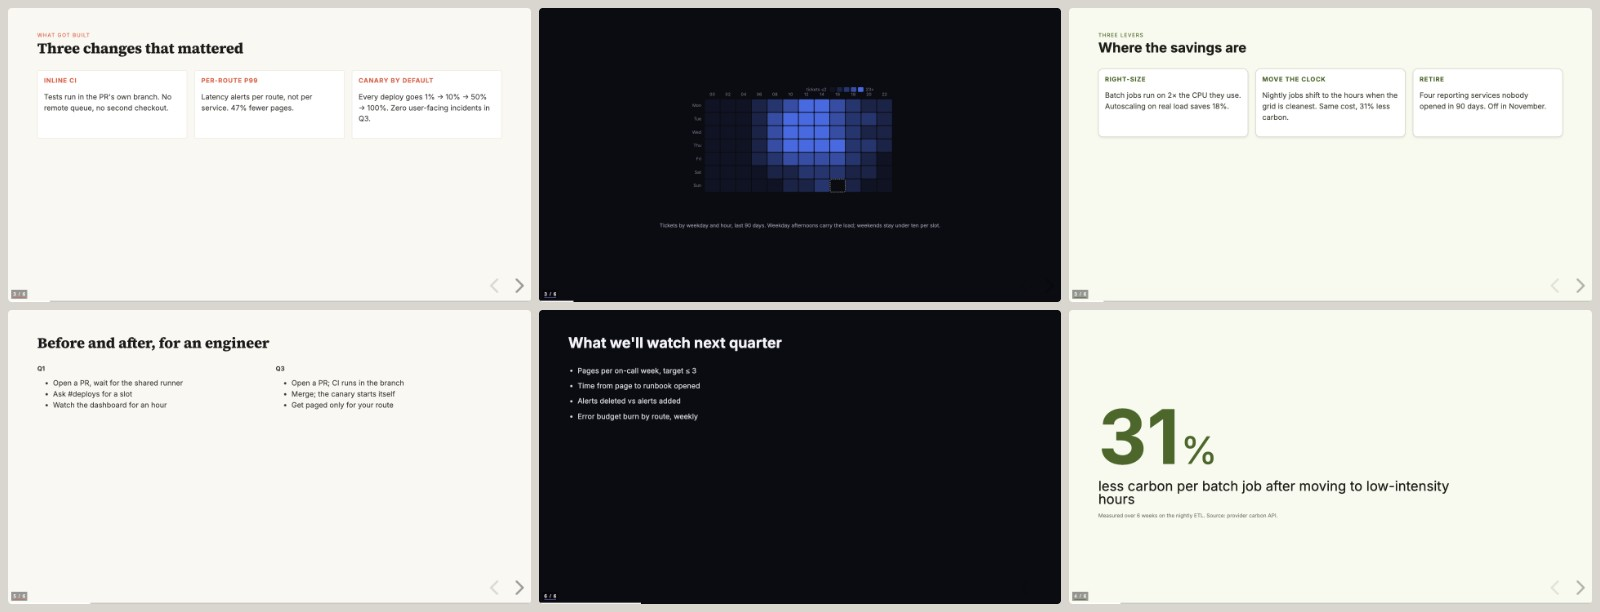
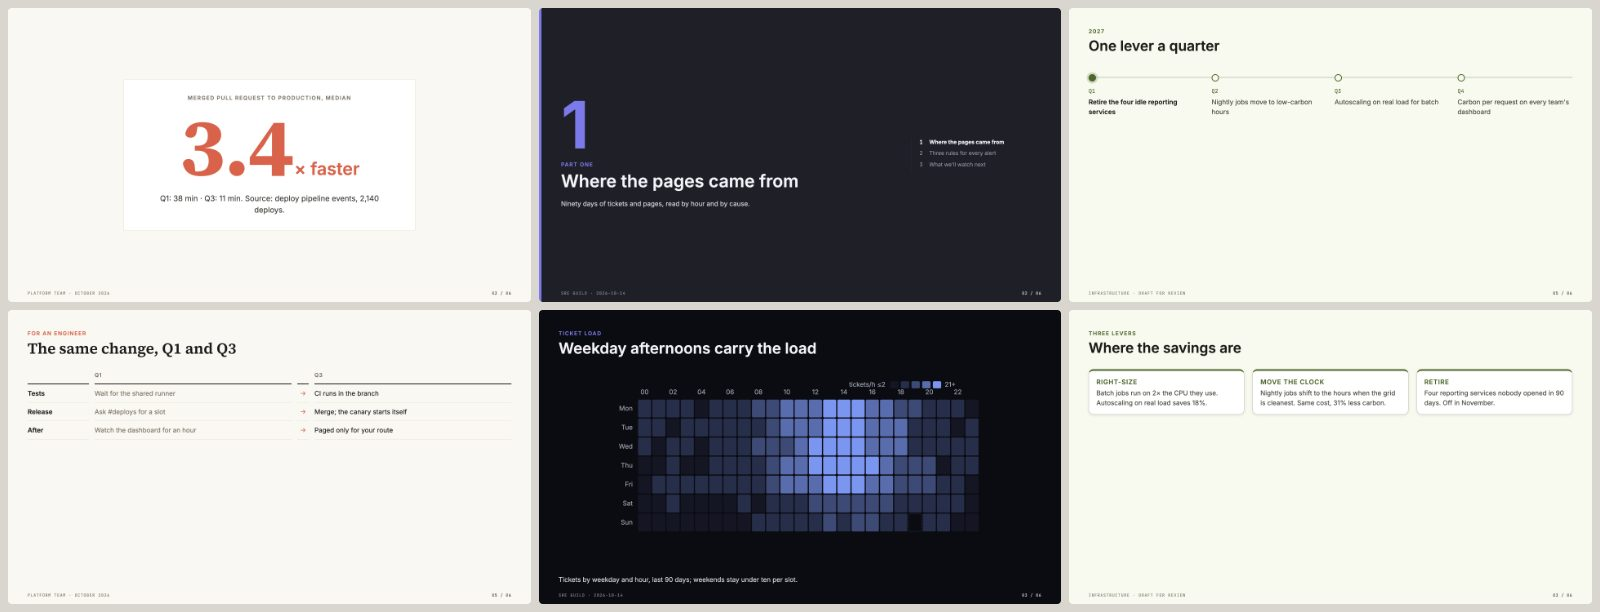
docs(gallery): rebuild the deck images with slideware v2
The README's deck and presenter images were built from old-format
slides.js decks with the removed builder and Reveal, so they could no longer
be rebuilt as documented. The three gallery decks are now slide markup in the
catalogue's patterns (docs/gallery/decks/style-{1,3,5}.html), and
make-decks.js builds them with the engine, checks them, exports the slides,
photographs the presenter view and writes decks.jpg and presenter.jpg; it
needs Node 22+ and Chrome, not Playwright. The gallery README's steps follow.

The bignumber pattern now centres its stat and sets the number larger, which
the gallery showed it needed.

diff --git a/docs/gallery/make-decks.js b/docs/gallery/make-decks.js
@@ -1,0 +1,81 @@
+#!/usr/bin/env node
+// make-decks.js — the README's deck images, built with slideware's own engine.
+//
+//   NODE_OPTIONS= node docs/gallery/make-decks.js <scratch-dir> [--images]
+//
+// Builds three decks from decks/style-{1,3,5}.html (slide markup written with the catalogue's
+// patterns; the first line's comment names the style, title, footer and minutes), with the chart
+// figures from charts/ (or chartware's templates) in each deck's asset block. Then it exports every
+// slide as a picture, photographs the presenter view on style-1's big-number slide, lays out
+// decks-sheet.html and presenter-sheet.html, and with --images writes docs/images/decks.jpg and
+// presenter.jpg. Needs Node 22+ and Chrome; nothing is installed.
+"use strict";
+const fs = require("fs");
+const path = require("path");
+const { execFileSync } = require("child_process");
+const ROOT = path.resolve(__dirname, "..", "..");
+const HTML = path.join(ROOT, "plugins", "knowledgeware", "skills", "slideware", "html");
+const build = require(path.join(HTML, "engine", "build.js"));
+const D = require(path.join(HTML, "engine", "deckfile.js"));
+const { launch } = require(path.join(HTML, "engine", "cdp.js"));
+const CLI = path.join(HTML, "engine", "cli.js");
+
+const out = path.resolve(process.argv[2] || "");
+if (!process.argv[2]) { console.error("usage: node docs/gallery/make-decks.js <scratch-dir> [--images]"); process.exit(1); }
+const images = process.argv.includes("--images");
+fs.mkdirSync(path.join(out, "shots"), { recursive: true });
+
+function figureSvg(name) {
+  for (const dir of [path.join(__dirname, "charts"), path.join(ROOT, "plugins", "knowledgeware", "skills", "chartware", "templates", "svg")]) {
+    const f = path.join(dir, `${name}.svg`);
+    if (fs.existsSync(f)) return fs.readFileSync(f, "utf8").replace(/<\?xml[^>]*>\s*/, "").replace(/^<svg\b/, `<svg data-figure="${name}"`).trim();
+  }
+  throw new Error(`no chart ${name}.svg`);
+}
+
+const decks = [];
+for (const n of [1, 3, 5]) {
+  const src = fs.readFileSync(path.join(__dirname, "decks", `style-${n}.html`), "utf8");
+  const head = /<!--\s*deck:\s*(\S+)\s*·\s*title:\s*(.*?)\s*·\s*footer:\s*(.*?)\s*·\s*minutes:\s*(\d+)\s*-->/.exec(src);
+  const slides = src.slice(head.index + head[0].length).trim();
+  let text = build.newDeck({ brand: head[1], title: head[2], footer: [head[3]], minutes: Number(head[4]), slides });
+  const figs = [...new Set([...slides.matchAll(/data-figure-ref="([^"]+)"/g)].map((m) => m[1]))];
+  if (figs.length) text = D.spliceRegion(text, "sw-assets", D.region(text, "sw-assets").content + figs.map(figureSvg).join("\n") + "\n");
+  const file = path.join(out, `deck-style-${n}`, "index.html");
+  fs.mkdirSync(path.dirname(file), { recursive: true });
+  fs.writeFileSync(file, text);
+  const env = { ...process.env, NODE_OPTIONS: "" };
+  const check = execFileSync(process.execPath, [CLI, "check", file, "--render"], { env, encoding: "utf8" }).trim().split("\n").pop();
+  execFileSync(process.execPath, [CLI, "export", file, "--png", path.join(out, "shots", `s${n}`)], { env });
+  console.log(`style-${n}: ${check}`);
+  decks.push({ n, file });
+}
+
+// The sheets: six slides from the three decks, and the big-number slide beside its presenter view.
+const pick = [["s1", "02-speed"], ["s3", "02-part-1"], ["s5", "05-roadmap"], ["s1", "05-engineer"], ["s3", "03-load"], ["s5", "03-levers"]];
+for (const [dir, f] of pick) fs.copyFileSync(path.join(out, "shots", dir, `${f}.png`), path.join(out, "shots", `${dir}-${f}.png`));
+fs.copyFileSync(path.join(__dirname, "decks-sheet.html"), path.join(out, "decks-sheet.html"));
+fs.copyFileSync(path.join(__dirname, "presenter-sheet.html"), path.join(out, "presenter-sheet.html"));
+
+(async () => {
+  const b = await launch();
+  const main = await b.newPage({ width: 1280, height: 720, scale: 2 });
+  await main.goto(require("url").pathToFileURL(decks[0].file).href + "?capture#/speed");
+  await main.evaluate("new Promise((r) => SW.ready(r))");
+  fs.writeFileSync(path.join(out, "shots", "pres-main.png"), await main.screenshot());
+  const pres = await b.newPage({ width: 1280, height: 800, scale: 2 });
+  await pres.goto(require("url").pathToFileURL(decks[0].file).href + "?presenter#/speed");
+  await new Promise((r) => setTimeout(r, 1500));
+  fs.writeFileSync(path.join(out, "shots", "pres-view.png"), await pres.screenshot());
+  for (const sheet of ["decks", "presenter"]) {
+    const p = await b.newPage({ width: 1600, height: 900 });
+    await p.goto(require("url").pathToFileURL(path.join(out, `${sheet}-sheet.html`)).href);
+    await new Promise((r) => setTimeout(r, 500));
+    const h = await p.evaluate("Math.ceil(document.querySelector('.g').getBoundingClientRect().bottom)");
+    const jpg = await p.screenshot({ format: "jpeg", quality: 82, clip: { x: 0, y: 0, width: 1600, height: h } });
+    fs.writeFileSync(path.join(out, `${sheet}.jpg`), jpg);
+    if (images) fs.writeFileSync(path.join(ROOT, "docs", "images", `${sheet}.jpg`), jpg);
+    console.log(`${sheet}.jpg ${Math.round(jpg.length / 1024)} KB${images ? " → docs/images/" : ""}`);
+  }
+  await b.close();
+})().catch((e) => { console.error(e); process.exit(1); });

diff --git a/docs/gallery/decks/style-1.html b/docs/gallery/decks/style-1.html
@@ -1,0 +1,55 @@
+<!-- deck: style-1 · title: Platform engineering review, Q3 · footer: Platform team · October 2026 · minutes: 25 -->
+<section data-key="title" class="layout-title" data-chrome="none">
+  <p class="kicker">Platform team · Q3 review</p>
+  <h1>Platform engineering review, Q3</h1>
+  <p class="subtitle">What changed in how a change reaches production</p>
+  <div class="srule"></div>
+  <p class="meta">Platform team · October 2026</p>
+  <aside class="notes">Open with the one number on the next slide, then the three changes.
+
+- Keep the intro under a minute [pause]</aside>
+</section>
+<section data-key="speed" class="layout-bignumber">
+  <div class="stat">
+    <p class="label">Merged pull request to production, median</p>
+    <div class="figure-row"><span class="figure">3.4</span><span class="unit">× faster</span></div>
+    <p class="context">Q1: 38 min · Q3: 11 min. Source: deploy pipeline events, 2,140 deploys.</p>
+  </div>
+  <aside class="notes">Lead with the number, then the story behind it.
+
+- **No mandate:** teams opted in after a two-week pilot
+- The shared setup did most of the work [pause]</aside>
+</section>
+<section data-key="built" class="layout-card-row" style="--card-count: 3">
+  <p class="kicker">What got built</p>
+  <h3>Three changes that mattered</h3>
+  <div class="cards">
+    <div class="card top" data-step="1"><span class="n">01</span><h4>Inline CI</h4><p>Tests run in the pull request's own branch. No remote queue, no second checkout.</p></div>
+    <div class="card top" data-step="2"><span class="n">02</span><h4>Per-route p99</h4><p>Latency alerts per route, not per service. 47% fewer pages.</p></div>
+    <div class="card top" data-step="3"><span class="n">03</span><h4>Canary by default</h4><p>Every deploy goes 1% → 10% → 50% → 100%. Zero user-facing incidents in Q3.</p></div>
+  </div>
+  <aside class="notes">[click 1] CI. [click 2] Alerts. [click 3] Canaries.</aside>
+</section>
+<section data-key="cost" class="layout-figure">
+  <p class="kicker">Cost per deploy</p>
+  <h3>Net down a point, Q1 to Q3</h3>
+  <div class="fig"><svg data-figure-ref="waterfall" style="width: 900px"></svg></div>
+  <p class="figfoot">Price and volume effects added; mix, costs and FX took away.</p>
+  <aside class="notes">Walk the bars left to right.</aside>
+</section>
+<section data-key="engineer" class="layout-before-after">
+  <p class="kicker">For an engineer</p>
+  <h3>The same change, Q1 and Q3</h3>
+  <div class="ba">
+    <div class="row head"><span></span><span>Q1</span><span></span><span>Q3</span></div>
+    <div class="row"><span class="k">Tests</span><span class="from">Wait for the shared runner</span><span class="arrow">→</span><span class="to">CI runs in the branch</span></div>
+    <div class="row"><span class="k">Release</span><span class="from">Ask #deploys for a slot</span><span class="arrow">→</span><span class="to">Merge; the canary starts itself</span></div>
+    <div class="row"><span class="k">After</span><span class="from">Watch the dashboard for an hour</span><span class="arrow">→</span><span class="to">Paged only for your route</span></div>
+  </div>
+  <aside class="notes">Read one row; the others follow.</aside>
+</section>
+<section data-key="voice" class="layout-quote">
+  <blockquote>I stopped keeping a browser tab open for deploys. That's the whole review.</blockquote>
+  <p class="attribution">Staff engineer, payments team, Q3 retro</p>
+  <aside class="notes">Close on it.</aside>
+</section>

diff --git a/docs/gallery/decks/style-3.html b/docs/gallery/decks/style-3.html
@@ -1,0 +1,52 @@
+<!-- deck: style-3 · title: Observability overhaul · footer: SRE guild · 2026-10-14 · minutes: 20 -->
+<section data-key="title" class="layout-title" data-chrome="none">
+  <p class="kicker">SRE guild</p>
+  <h1>Observability overhaul</h1>
+  <p class="subtitle">From dashboards nobody opened to alerts people trust</p>
+  <div class="srule"></div>
+  <p class="meta">2026-10-14</p>
+  <aside class="notes">One sentence on why now.</aside>
+</section>
+<section data-key="part-1" class="layout-section" data-divider>
+  <div><span class="num">1</span><p class="kicker">Part one</p><h2>Where the pages came from</h2><p class="lede">Ninety days of tickets and pages, read by hour and by cause.</p></div>
+  <ol class="rail"><li class="on">Where the pages came from</li><li>Three rules for every alert</li><li>What we'll watch next</li></ol>
+  <aside class="notes">Transition into the data.</aside>
+</section>
+<section data-key="load" class="layout-figure">
+  <p class="kicker">Ticket load</p>
+  <h3>Weekday afternoons carry the load</h3>
+  <div class="fig"><svg data-figure-ref="heatmap" style="width: 960px"></svg></div>
+  <p class="figfoot">Tickets by weekday and hour, last 90 days; weekends stay under ten per slot.</p>
+  <aside class="notes">Point at the afternoon band.</aside>
+</section>
+<section data-key="noise" class="layout-bignumber">
+  <div class="stat">
+    <p class="label">Pages in Q2 that auto-resolved within five minutes</p>
+    <div class="figure-row"><span class="figure">42</span><span class="unit">%</span></div>
+    <p class="context">1,920 pages reviewed. Source: on-call tooling export, 2026-07.</p>
+  </div>
+  <aside class="notes">Almost half the pages needed nobody.</aside>
+</section>
+<section data-key="rules" class="layout-card-row" style="--card-count: 3">
+  <p class="kicker">The fix</p>
+  <h3>Three rules for every alert</h3>
+  <div class="cards">
+    <div class="card top"><h4>A runbook or it doesn't page</h4><p>Every paging alert links to a runbook with a first command to run.</p></div>
+    <div class="card top"><h4>Symptoms, not causes</h4><p>Page on user-visible latency and errors. Causes go to a ticket queue.</p></div>
+    <div class="card top"><h4>Owned by a route</h4><p>Each alert names the team that owns the route, not the service.</p></div>
+  </div>
+  <aside class="notes">Three rules, one sentence each.</aside>
+</section>
+<section data-key="watch" class="layout-table">
+  <p class="kicker">Next quarter</p>
+  <h3>What we'll watch</h3>
+  <div class="tbl"><table>
+    <thead><tr><th>Measure</th><th class="num">Target</th><th>Why</th></tr></thead>
+    <tbody>
+      <tr><td class="first">Pages per on-call week</td><td class="num">≤ 3</td><td>The headline</td></tr>
+      <tr><td class="first">Page to runbook opened</td><td class="num">≤ 2 min</td><td>Runbooks that are actually used</td></tr>
+      <tr><td class="first">Alerts deleted vs added</td><td class="num">≥ 1</td><td>The set shrinks, not grows</td></tr>
+      <tr><td class="first">Error budget burn by route</td><td class="num">weekly</td><td>Owners see their own routes</td></tr>
+    </tbody></table></div>
+  <aside class="notes">Four numbers, reviewed weekly.</aside>
+</section>

diff --git a/docs/gallery/decks/style-5.html b/docs/gallery/decks/style-5.html
@@ -1,0 +1,50 @@
+<!-- deck: style-5 · title: Sustainability roadmap 2027 · footer: Infrastructure · Draft for review · minutes: 30 -->
+<section data-key="title" class="layout-title" data-chrome="none">
+  <p class="kicker">Infrastructure</p>
+  <h1>Sustainability roadmap 2027</h1>
+  <p class="subtitle">Compute, carbon and cost in one plan</p>
+  <div class="srule"></div>
+  <p class="meta">Draft for review</p>
+  <aside class="notes">The plan in one breath.</aside>
+</section>
+<section data-key="flow" class="layout-figure">
+  <p class="kicker">Where sessions go</p>
+  <h3>Organic converts best</h3>
+  <div class="fig"><svg data-figure-ref="sankey" style="width: 940px"></svg></div>
+  <p class="figfoot">Sessions by source and outcome; paid carries the most bounces.</p>
+  <aside class="notes">Follow the organic band.</aside>
+</section>
+<section data-key="levers" class="layout-card-row" style="--card-count: 3">
+  <p class="kicker">Three levers</p>
+  <h3>Where the savings are</h3>
+  <div class="cards">
+    <div class="card top"><h4>Right-size</h4><p>Batch jobs run on 2× the CPU they use. Autoscaling on real load saves 18%.</p></div>
+    <div class="card top"><h4>Move the clock</h4><p>Nightly jobs shift to the hours when the grid is cleanest. Same cost, 31% less carbon.</p></div>
+    <div class="card top"><h4>Retire</h4><p>Four reporting services nobody opened in 90 days. Off in November.</p></div>
+  </div>
+  <aside class="notes">Three levers, biggest first.</aside>
+</section>
+<section data-key="carbon" class="layout-bignumber">
+  <div class="stat">
+    <p class="label">Less carbon per batch job, at low-intensity hours</p>
+    <div class="figure-row"><span class="figure">31</span><span class="unit">%</span></div>
+    <p class="context">Measured over 6 weeks on the nightly ETL. Source: provider carbon API.</p>
+  </div>
+  <aside class="notes">Same jobs, different hours.</aside>
+</section>
+<section data-key="roadmap" class="layout-timeline" style="--points: 4">
+  <p class="kicker">2027</p>
+  <h3>One lever a quarter</h3>
+  <ol class="timeline">
+    <li class="on"><span class="when">Q1</span><p class="what">Retire the four idle reporting services</p></li>
+    <li><span class="when">Q2</span><p class="what">Nightly jobs move to low-carbon hours</p></li>
+    <li><span class="when">Q3</span><p class="what">Autoscaling on real load for batch</p></li>
+    <li><span class="when">Q4</span><p class="what">Carbon per request on every team's dashboard</p></li>
+  </ol>
+  <aside class="notes">We start with the cheapest win.</aside>
+</section>
+<section data-key="close" class="layout-quote">
+  <blockquote>The cheapest compute is the job you stopped running.</blockquote>
+  <p class="attribution">Head of infrastructure, planning offsite</p>
+  <aside class="notes">Close on it.</aside>
+</section>

diff --git a/plugins/knowledgeware/skills/slideware/html/catalog/bignumber.html b/plugins/knowledgeware/skills/slideware/html/catalog/bignumber.html
@@ -8,13 +8,13 @@ builds: none, or the context on a click
 from: Track 03 brand kit (layout-bignumber), old patterns.md big number
 -->
 <style>
-section[data-key].layout-bignumber { justify-content: center; align-items: flex-start; }
-section[data-key].layout-bignumber .stat { padding: 28px 32px; border: 1px solid var(--color-border); border-radius: var(--radius); background: var(--color-surface); box-shadow: 0 2px 8px rgba(0, 0, 0, var(--shadow-opacity)); }
+section[data-key].layout-bignumber { justify-content: center; align-items: center; text-align: center; }
+section[data-key].layout-bignumber .stat { min-width: 52%; padding: 36px 48px; border: 1px solid var(--color-border); border-radius: var(--radius); background: var(--color-surface); box-shadow: 0 2px 8px rgba(0, 0, 0, var(--shadow-opacity)); }
 section[data-key].layout-bignumber .label { margin: 0 0 .6em; font-size: var(--size-caption); font-weight: 600; letter-spacing: .12em; text-transform: uppercase; color: var(--color-ink-muted); }
-section[data-key].layout-bignumber .figure-row { display: flex; align-items: baseline; gap: .2em; }
-section[data-key].layout-bignumber .figure { font-family: var(--font-heading, var(--font-serif)); font-size: 110pt; font-weight: 700; line-height: 1; letter-spacing: -.02em; color: var(--color-accent); }
+section[data-key].layout-bignumber .figure-row { display: flex; align-items: baseline; justify-content: center; gap: .2em; }
+section[data-key].layout-bignumber .figure { font-family: var(--font-heading, var(--font-serif)); font-size: 150pt; font-weight: 700; line-height: 1; letter-spacing: -.02em; color: var(--color-accent); }
 section[data-key].layout-bignumber .unit { font-size: var(--size-section); font-weight: 600; color: var(--color-accent); }
-section[data-key].layout-bignumber .context { max-width: 46ch; margin: .8em 0 0; font-size: var(--size-subbody); color: var(--color-ink-body); }
+section[data-key].layout-bignumber .context { max-width: 46ch; margin: .8em auto 0; font-size: var(--size-body); color: var(--color-ink-body); }
 </style>
 <section data-key="example-bignumber" class="layout-bignumber">
   <div class="stat">

diff --git a/docs/gallery/decks-sheet.html b/docs/gallery/decks-sheet.html
@@ -1,6 +1,6 @@
 <!doctype html><html><head><meta charset="utf-8"><title>decks</title>
 <style>body{margin:0;background:#D9D6CF}.g{display:grid;grid-template-columns:repeat(3,1fr);gap:8px;padding:8px;width:1600px;box-sizing:border-box}img{width:100%;height:auto;display:block;border-radius:4px}</style>
 </head><body><div class="g">
-<img src="/shots/s1-1.png"><img src="/shots/s3-2.png"><img src="/shots/s5-1.png">
-<img src="/shots/s1-3.png"><img src="/shots/s3-5.png"><img src="/shots/s5-3.png">
+<img src="shots/s1-02-speed.png"><img src="shots/s3-02-part-1.png"><img src="shots/s5-05-roadmap.png">
+<img src="shots/s1-05-engineer.png"><img src="shots/s3-03-load.png"><img src="shots/s5-03-levers.png">
 </div></body></html>

diff --git a/docs/gallery/presenter-sheet.html b/docs/gallery/presenter-sheet.html
@@ -1,3 +1,3 @@
 <!doctype html><html><head><meta charset="utf-8"><title>presenter</title>
 <style>body{margin:0;background:#D9D6CF}.g{display:grid;grid-template-columns:1fr 0.7fr;gap:8px;padding:8px;width:1600px;box-sizing:border-box;align-items:center}img{width:100%;height:auto;display:block;border-radius:4px}</style>
-</head><body><div class="g"><img src="/shots/pres-main.png"><img src="/shots/pres-view.png"></div></body></html>
+</head><body><div class="g"><img src="shots/pres-main.png"><img src="shots/pres-view.png"></div></body></html>

diff --git a/docs/gallery/README.md b/docs/gallery/README.md
@@ -1,18 +1,18 @@
 # Gallery sources
 
-The sources behind the images in `docs/images/`, so the gallery can be rebuilt after a visual change. Everything is rendered with the plugins' own tooling and screenshotted with Playwright; nothing is mocked up.
+The sources behind the images in `docs/images/`, so the gallery can be rebuilt after a visual change. Everything is rendered with the plugins' own tooling; nothing is mocked up. The deck images are built and photographed by `make-decks.js` with slideware's engine; the others are screenshotted with Playwright.
 
 | Image | Built from |
 |---|---|
 | `styles.jpg` | `styles-sheet.html`: the five styles' own `css/<name>.css` and marks, light and dark, in iframes |
 | `charts.jpg`, `diagram.jpg` | `charts-sheet.html` over `charts/*.svg`, richer variants of nine templates written by `make-charts.py`; the sheet links `styles/style-4/css/style-4.css` and inlines the SVGs, so their token blocks pick up Warm Sage. `?only=diagram-flow` renders the diagram alone |
-| `decks.jpg` | `decks-sheet.html` over slides from three HTML decks built with slideware from `deck-style-{1,3,5}.slides.js` |
-| `presenter.jpg` | `presenter-sheet.html`: the style-1 deck's slide 2 and its presenter view (`index.html?presenter#/1`) |
+| `decks.jpg` | `decks-sheet.html` over slides from three HTML decks that `make-decks.js` builds from `decks/style-{1,3,5}.html` (slide markup in the catalogue's patterns, with chart figures from `charts/`) |
+| `presenter.jpg` | `presenter-sheet.html`: the style-1 deck's big-number slide and its presenter view (`index.html?presenter#/speed`) |
 | `knowledgebase.jpg` | `kb-sheet.html` over `kb-upgrade.html` (the template's palette) and `kb-incident.html` (a dark palette set through the template's CSS variables) |
 
 ## Rebuilding
 
-1. Make a scratch folder and link the plugin's assets into it: `charts` → `plugins/knowledgeware/skills/chartware/templates/svg`, `styles` → `plugins/knowledgeware/styles`, and copy `mermaid.min.js` beside the two `kb-*.html` pages (the knowledgebase template loads it by that name).
-2. For each `deck-style-N.slides.js`, scaffold a deck as the slideware html workflow describes (`load-style.js style-N -o style.md`, the four template files, `npm install`), save the file as `slides.js`, and run `node build-deck.js .`. The chart slides reference `../charts/<name>.svg`.
-3. Serve the folder (`python3 -m http.server 8766`) and open the pages with Playwright. Each deck slide needs its own page load, because Reveal doesn't move on a hash-only navigation: use `index.html?v=N#/N`, wait 1.5 s, screenshot at 1280×720. The presenter view is 1280×800; the knowledgebase pages are 1240×1500 with the incident page under `prefers-color-scheme: dark`.
-4. Screenshot the `*-sheet.html` pages at 1600 wide as JPEG with `fullPage` on a short viewport, and copy the results to `docs/images/`.
+1. For the styles, charts and knowledgebase images, make a scratch folder and link the plugin's assets into it: `charts` → `plugins/knowledgeware/skills/chartware/templates/svg`, `styles` → `plugins/knowledgeware/styles`, and copy `mermaid.min.js` beside the two `kb-*.html` pages (the knowledgebase template loads it by that name).
+2. Decks and the presenter view: from the repository root, `NODE_OPTIONS= node docs/gallery/make-decks.js <scratch-dir> --images`. It builds the three decks with slideware's engine (each must check clean), exports every slide, photographs the presenter view, lays out both sheets and writes `decks.jpg` and `presenter.jpg` into `docs/images/`. It needs Node 22+ and Chrome, nothing else. To change a deck, edit its `decks/style-N.html`: the first line names the style, title, footer and minutes; the slides use the catalogue's patterns (`cli.js catalog`), and `data-figure-ref` names a chart in `charts/` or chartware's templates.
+3. The other pages: serve the scratch folder (`python3 -m http.server 8766`) and open them with Playwright. The knowledgebase pages are 1240×1500, with the incident page under `prefers-color-scheme: dark`.
+4. Screenshot the remaining `*-sheet.html` pages at 1600 wide as JPEG with `fullPage` on a short viewport, and copy the results to `docs/images/`.
